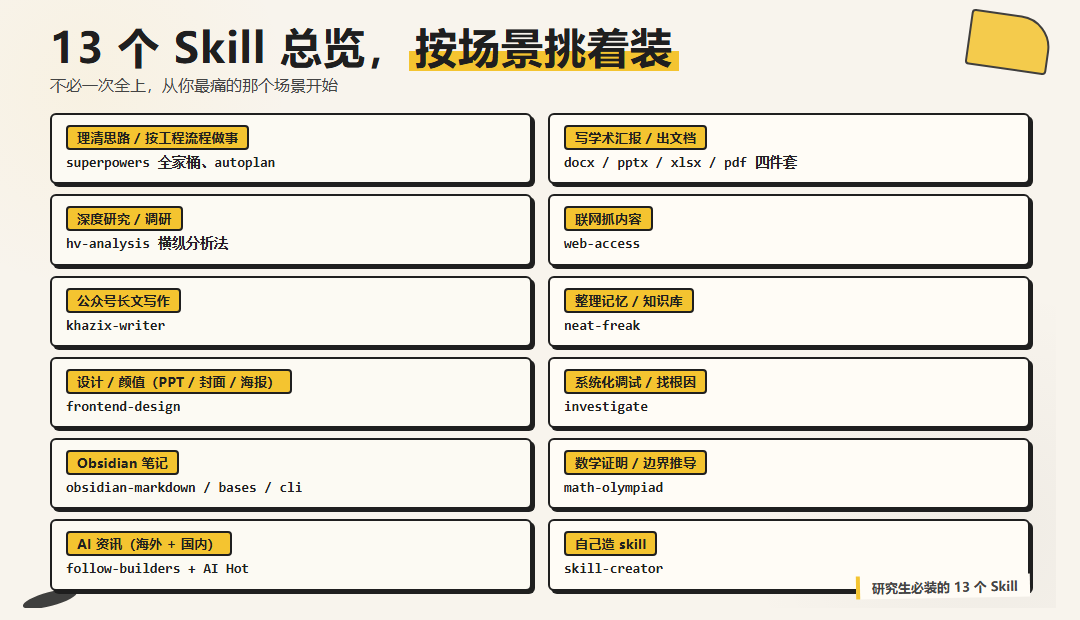
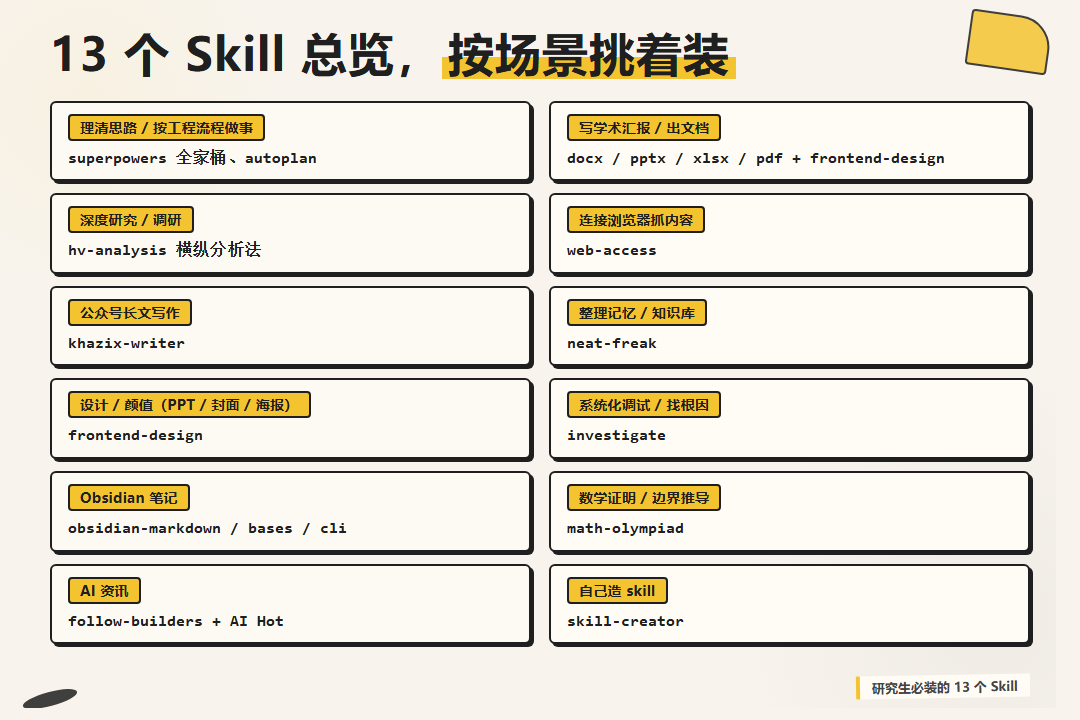
Polish img-overview + AI Hot description
img-overview.png changes (canvas 620→720 to fit all 12 cards):
- Subtitle 「不必一次全上...」 removed
- Card skill-name font 13.5px → 16px (clearer scan at thumbnail size)
- 「联网抓内容」 → 「连接浏览器抓内容」 (technically accurate;
  web-access works by connecting to a local browser via CDP,
  not generic 「联网」)
- 「AI 资讯（海外 + 国内）」 → 「AI 资讯」 (the 海外+国内 framing
  was misleading — see AI Hot fix below)
- 「写学术汇报 / 出文档」 row now includes frontend-design alongside
  docx/pptx/xlsx/pdf, since most thesis decks and figures cross
  both skill territories

AI Hot description fix in section 十二:
- Previously: 「中文 AI 资讯查询 skill」 implied it only covers
  Chinese AI scene. Wrong — AI Hot covers all AI scene (国内+海外),
  but outputs in Chinese.
- New framing: follow-builders subscribes to a curated builder list
  (deep but narrow); AI Hot scans wider AI scene (releases / models /
  products / papers / industry news), output is Chinese. Paired as
  「一个深一个广」 not 「一英一中」.

Changed region(s): [[0.0306, 0.0306, 0.9778, 0.9806], [0.8861, 0.0, 0.9472, 0.0306], [0.9472, 0.1532, 0.9778, 0.1839]]

diff --git a/img-overview.html b/img-overview.html
@@ -2,35 +2,32 @@
 <html lang="en"><head><meta charset="UTF-8"><title>img-overview</title>
 <style>
   *{margin:0;padding:0;box-sizing:border-box}
-  html,body{width:1080px;height:620px;overflow:hidden}
-  body{background:#F8F4ED;background-image:radial-gradient(circle at 8% 14%,rgba(244,196,48,.06) 0,transparent 18%),radial-gradient(circle at 92% 86%,rgba(31,31,31,.04) 0,transparent 22%);font-family:'PingFang SC','Hiragino Sans GB','Microsoft YaHei',sans-serif;color:#1F1F1F;padding:24px 50px 22px;position:relative}
+  html,body{width:1080px;height:720px;overflow:hidden}
+  body{background:#F8F4ED;background-image:radial-gradient(circle at 8% 14%,rgba(244,196,48,.06) 0,transparent 18%),radial-gradient(circle at 92% 86%,rgba(31,31,31,.04) 0,transparent 22%);font-family:'PingFang SC','Hiragino Sans GB','Microsoft YaHei',sans-serif;color:#1F1F1F;padding:28px 50px 22px;position:relative}
   body::before{content:'';position:absolute;top:14px;right:30px;width:78px;height:52px;background:#F4C430;opacity:.85;border:2.5px solid #1F1F1F;border-radius:4px 32px 4px 4px;transform:rotate(8deg)}
   body::after{content:'';position:absolute;bottom:14px;left:22px;width:56px;height:14px;background:#1F1F1F;border-radius:50%;transform:rotate(-15deg);opacity:.85}
-  .title{font-size:42px;font-weight:900;letter-spacing:1px;margin-bottom:4px;line-height:1.1}
+  .title{font-size:46px;font-weight:900;letter-spacing:1px;margin-bottom:22px;line-height:1.1}
   .title .hl{background:linear-gradient(transparent 58%,#F4C430 58%,#F4C430 94%,transparent 94%);padding:0 6px}
-  .subtitle{font-size:16px;color:#444;margin-bottom:18px;font-weight:500}
-  .grid{display:grid;grid-template-columns:1fr 1fr;gap:10px 16px}
-  .card{background:#FFFCF6;border:2.5px solid #1F1F1F;border-radius:6px;padding:10px 14px;box-shadow:3px 3px 0 #1F1F1F;display:flex;flex-direction:column;gap:4px;min-height:62px;justify-content:center}
+  .grid{display:grid;grid-template-columns:1fr 1fr;gap:12px 18px}
+  .card{background:#FFFCF6;border:2.5px solid #1F1F1F;border-radius:6px;padding:11px 16px;box-shadow:3px 3px 0 #1F1F1F;display:flex;flex-direction:column;gap:6px;min-height:72px;justify-content:center}
   .card:nth-child(odd){background:#FCFAF3}
-  .card-tag{display:inline-block;background:#F4C430;padding:2px 9px;border:2px solid #1F1F1F;border-radius:4px;font-size:13px;font-weight:800;align-self:flex-start;letter-spacing:0.3px}
-  .card-skill{font-family:'JetBrains Mono','Consolas',monospace;font-size:13.5px;color:#1F1F1F;font-weight:600;letter-spacing:0.2px;line-height:1.35}
-  .stamp{position:absolute;left:50px;bottom:32px;background:#F4C430;color:#1F1F1F;padding:7px 14px;border:3px solid #1F1F1F;border-radius:6px;font-size:14px;font-weight:800;transform:rotate(-3deg);box-shadow:4px 4px 0 #1F1F1F;line-height:1.3}
+  .card-tag{display:inline-block;background:#F4C430;padding:2px 10px;border:2px solid #1F1F1F;border-radius:4px;font-size:14px;font-weight:800;align-self:flex-start;letter-spacing:0.3px}
+  .card-skill{font-family:'JetBrains Mono','Consolas',monospace;font-size:16px;color:#1F1F1F;font-weight:600;letter-spacing:0.2px;line-height:1.35}
   .footer{position:absolute;bottom:22px;right:50px;font-size:13px;color:#444;background:#FFFCF6;border-left:4px solid #F4C430;padding:3px 12px;transform:rotate(-1deg);font-weight:600}
 </style></head><body>
   <div class="title">13 个 Skill 总览，<span class="hl">按场景挑着装</span></div>
-  <div class="subtitle">不必一次全上，从你最痛的那个场景开始</div>
   <div class="grid">
     <div class="card"><div class="card-tag">理清思路 / 按工程流程做事</div><div class="card-skill">superpowers 全家桶、autoplan</div></div>
-    <div class="card"><div class="card-tag">写学术汇报 / 出文档</div><div class="card-skill">docx / pptx / xlsx / pdf 四件套</div></div>
+    <div class="card"><div class="card-tag">写学术汇报 / 出文档</div><div class="card-skill">docx / pptx / xlsx / pdf + frontend-design</div></div>
     <div class="card"><div class="card-tag">深度研究 / 调研</div><div class="card-skill">hv-analysis 横纵分析法</div></div>
-    <div class="card"><div class="card-tag">联网抓内容</div><div class="card-skill">web-access</div></div>
+    <div class="card"><div class="card-tag">连接浏览器抓内容</div><div class="card-skill">web-access</div></div>
     <div class="card"><div class="card-tag">公众号长文写作</div><div class="card-skill">khazix-writer</div></div>
     <div class="card"><div class="card-tag">整理记忆 / 知识库</div><div class="card-skill">neat-freak</div></div>
     <div class="card"><div class="card-tag">设计 / 颜值（PPT / 封面 / 海报）</div><div class="card-skill">frontend-design</div></div>
     <div class="card"><div class="card-tag">系统化调试 / 找根因</div><div class="card-skill">investigate</div></div>
     <div class="card"><div class="card-tag">Obsidian 笔记</div><div class="card-skill">obsidian-markdown / bases / cli</div></div>
     <div class="card"><div class="card-tag">数学证明 / 边界推导</div><div class="card-skill">math-olympiad</div></div>
-    <div class="card"><div class="card-tag">AI 资讯（海外 + 国内）</div><div class="card-skill">follow-builders + AI Hot</div></div>
+    <div class="card"><div class="card-tag">AI 资讯</div><div class="card-skill">follow-builders + AI Hot</div></div>
     <div class="card"><div class="card-tag">自己造 skill</div><div class="card-skill">skill-creator</div></div>
   </div>
   <div class="footer">研究生必装的 13 个 Skill</div>
